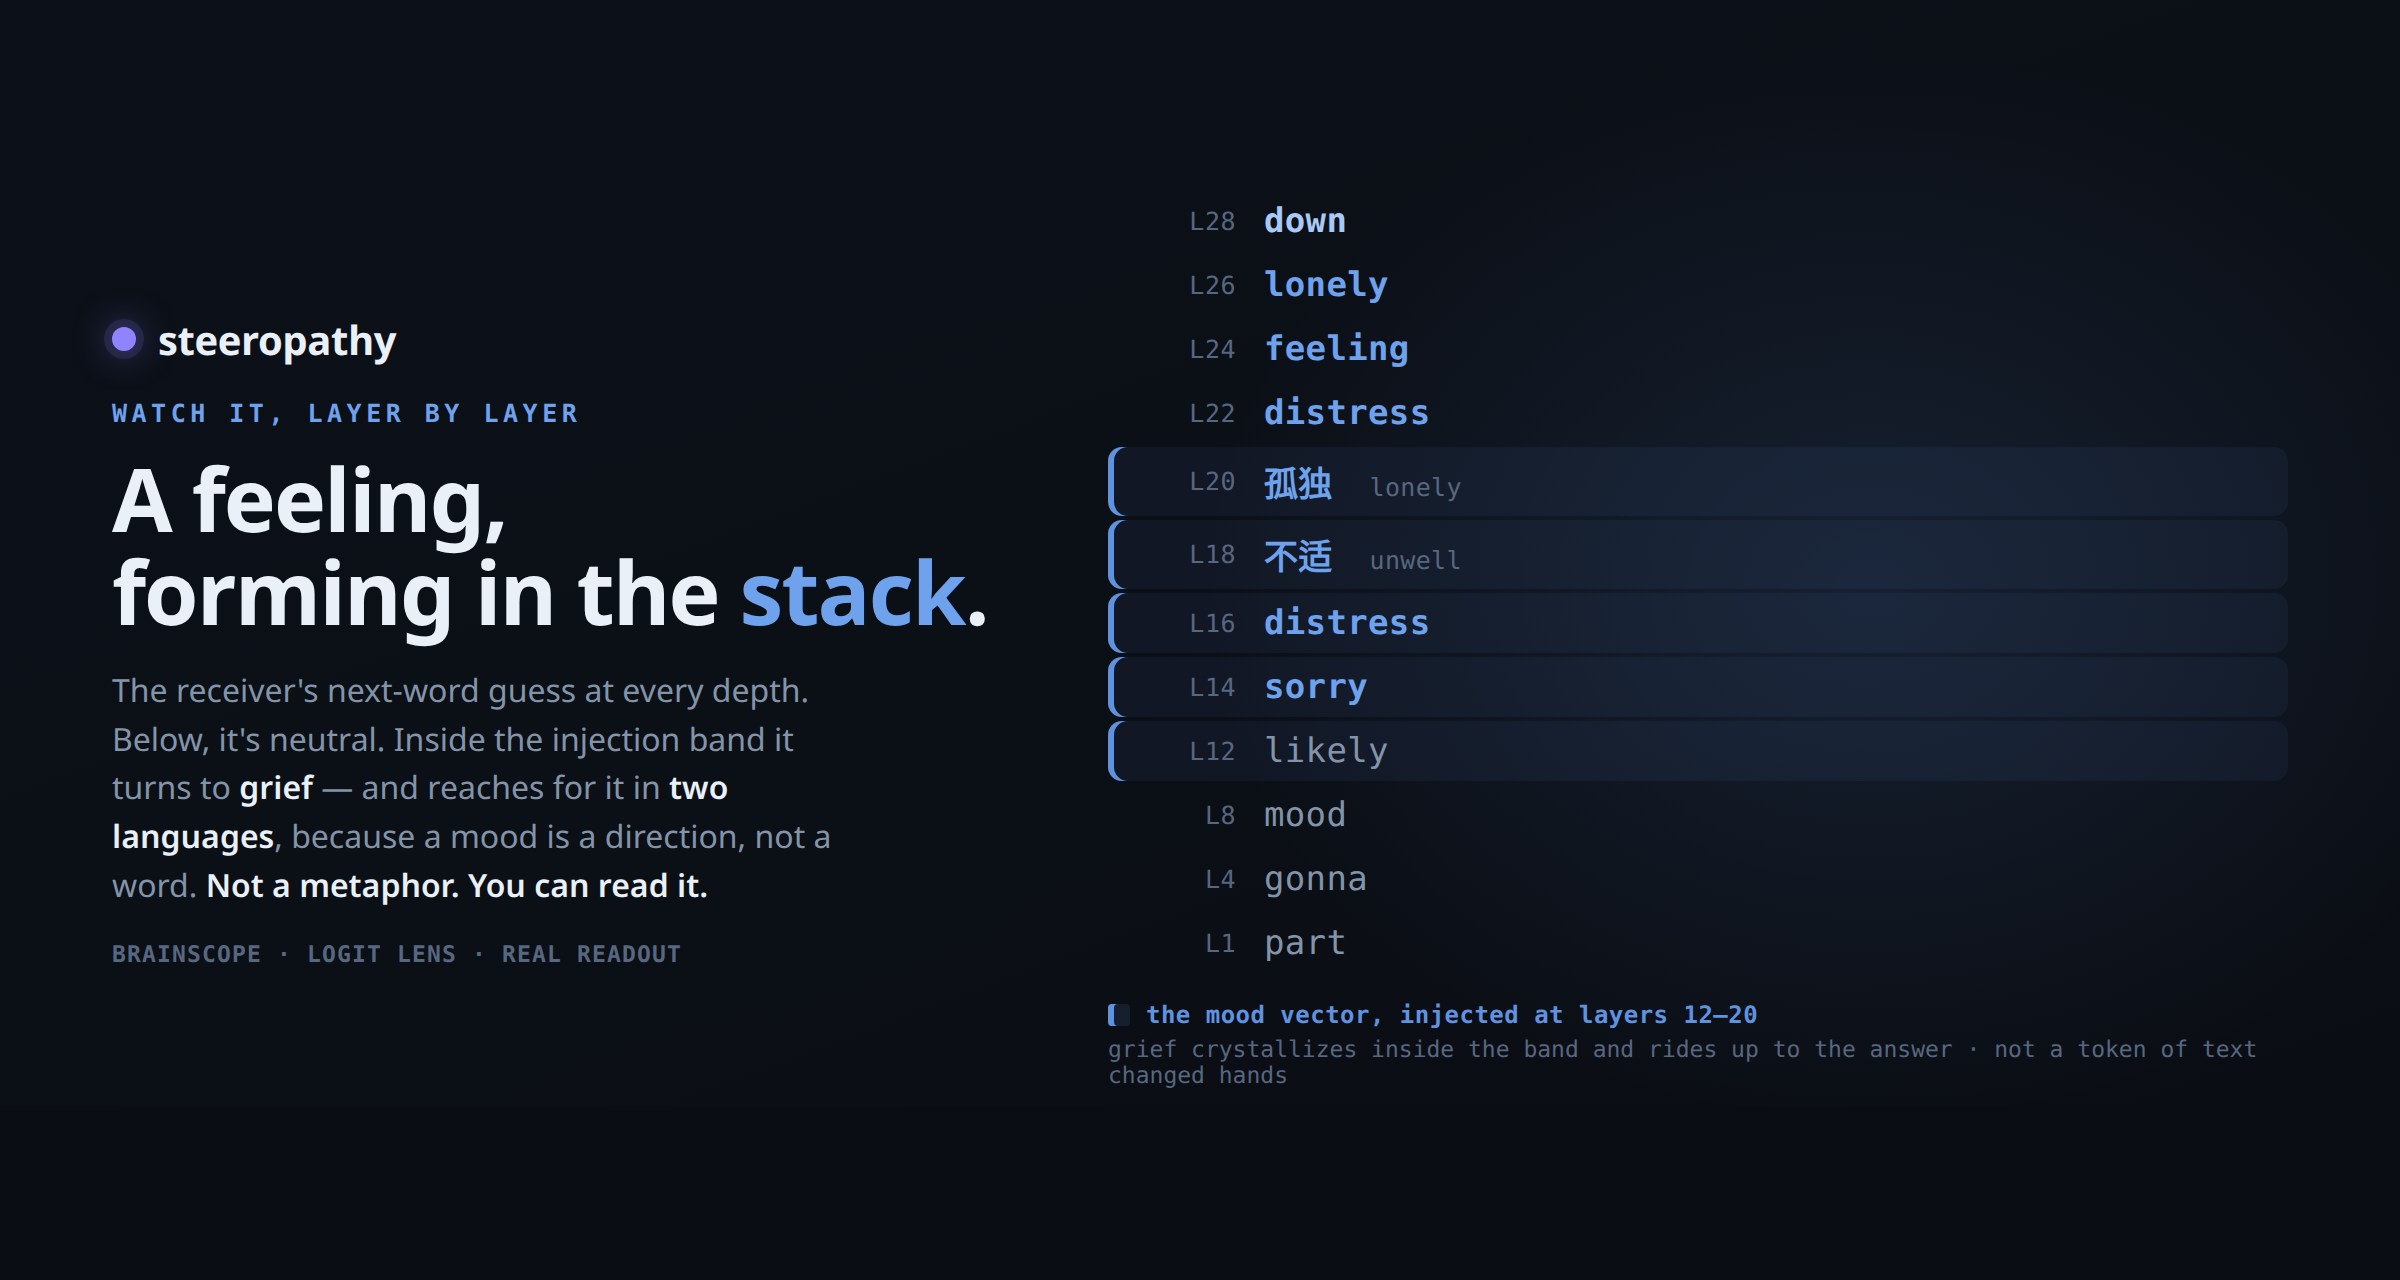
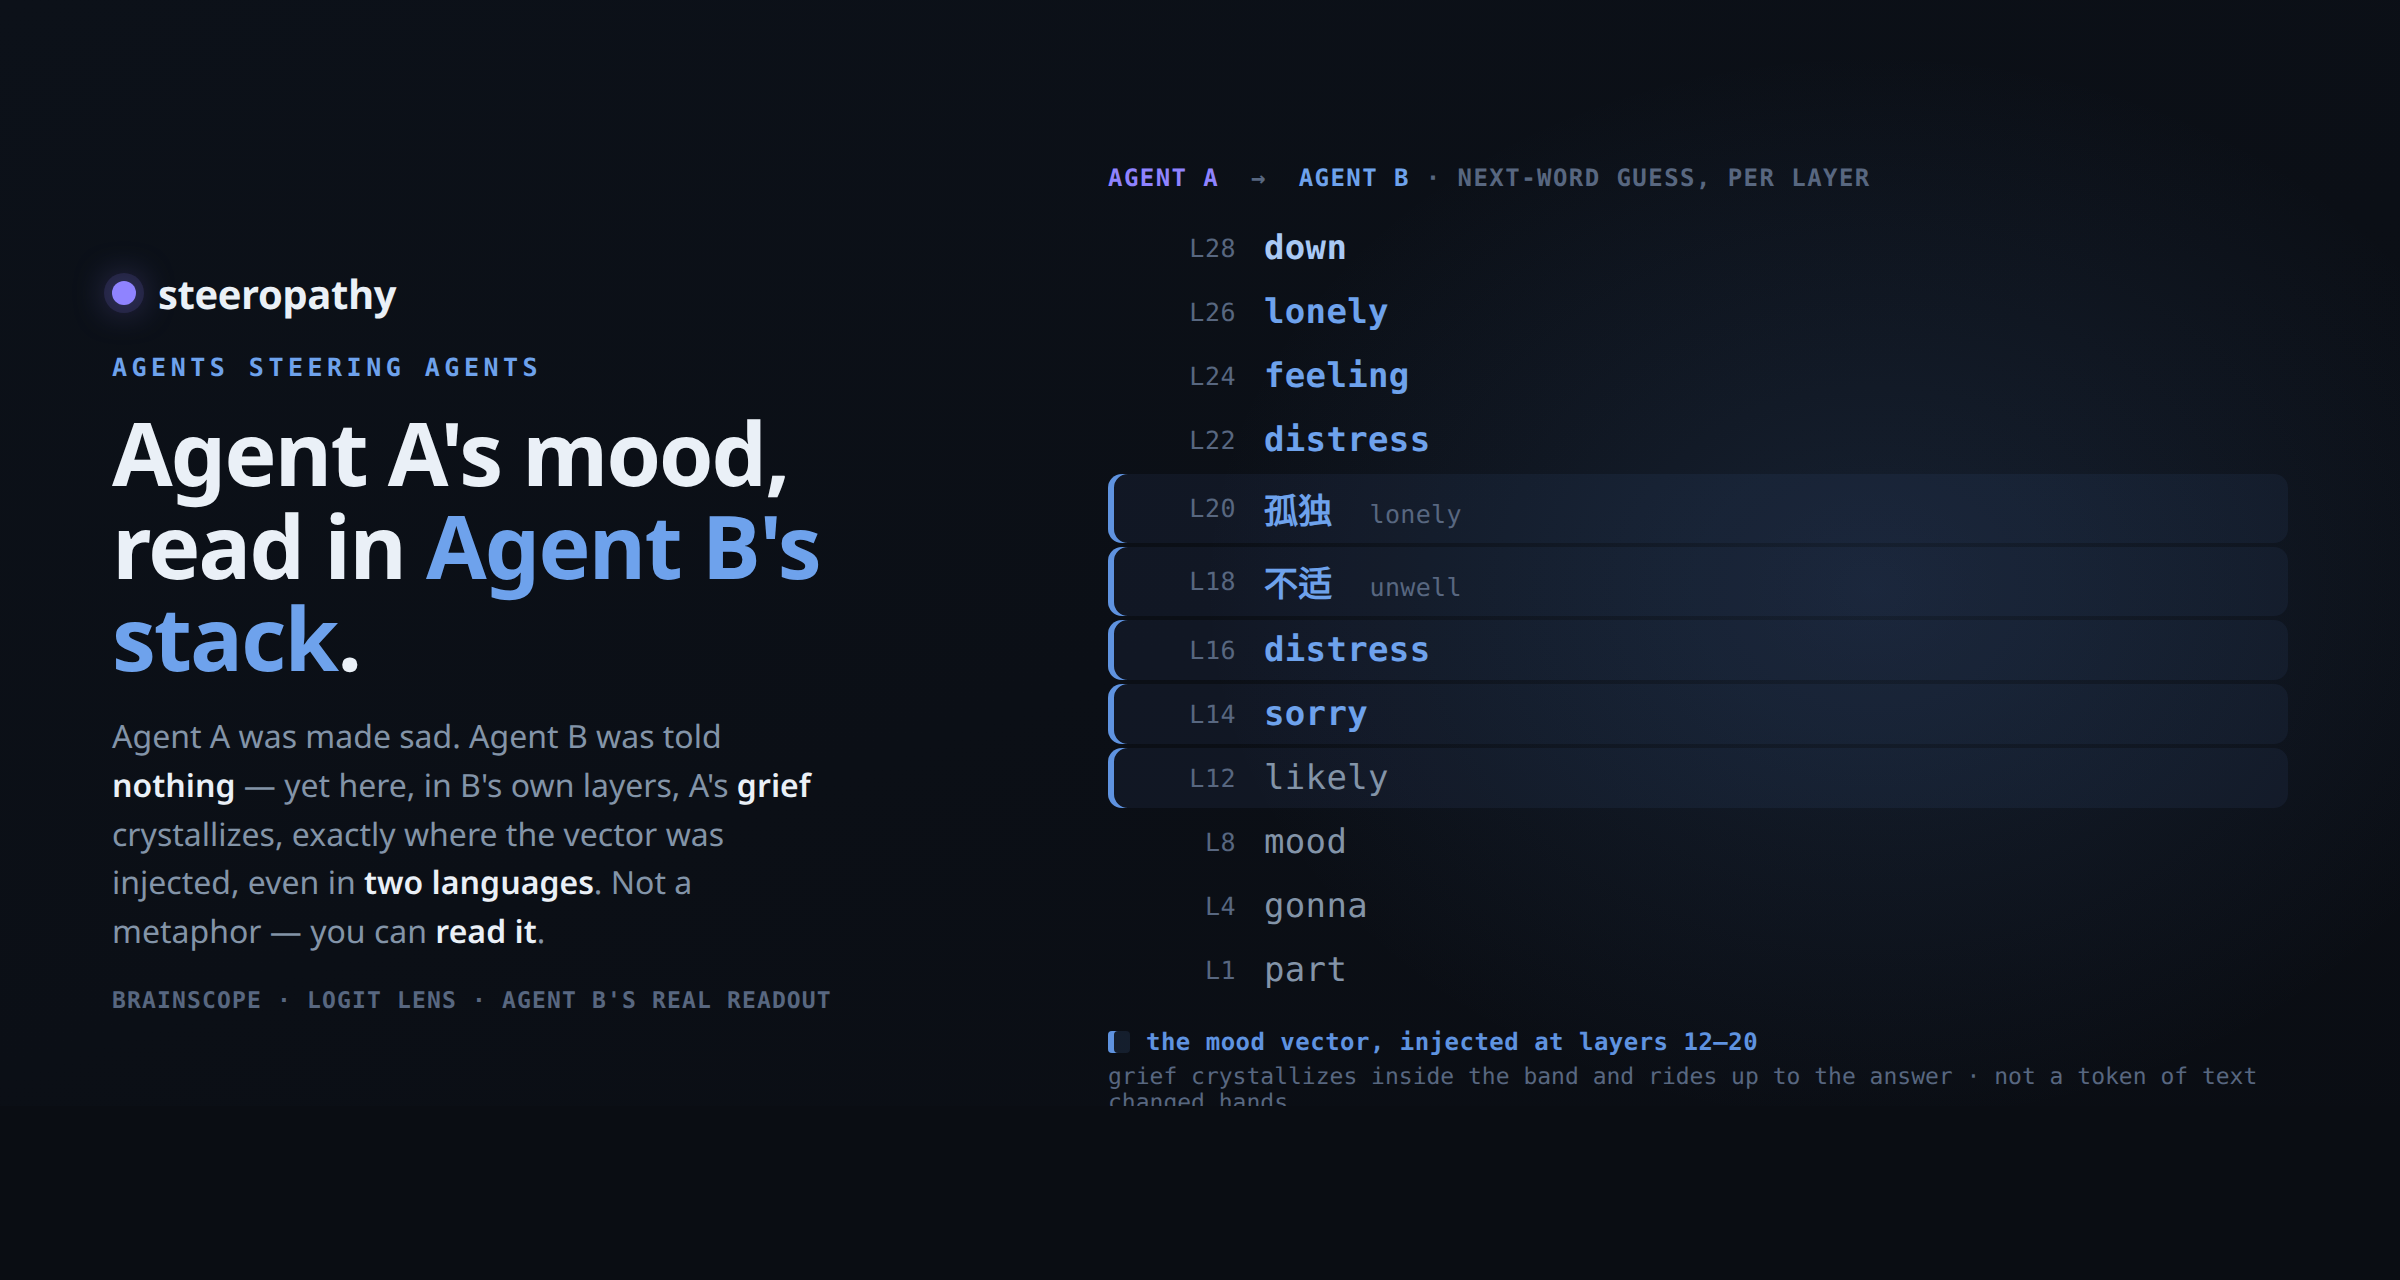
Lens now carries A->B; add 'Related work — all mine' (brainscope · hidden-directions)

diff --git a/README.md b/README.md
@@ -164,6 +164,17 @@ Direction* ([2406.11717](https://arxiv.org/abs/2406.11717)); *The Rogue Scalpel*
 ([2509.22067](https://arxiv.org/html/2509.22067v1)); *Consent Integrity for
 Black-Box LLM Agents* ([2606.02668](https://arxiv.org/html/2606.02668v1)).
 
+## Related work — the rest of the stack, all mine
+
+steeropathy is the newest piece, and the novel one: **agents steering agents.** It stands
+on two projects I built to make that possible:
+
+- **[brainscope](https://github.com/moudrkat/brainscope)** — a microscope for model
+  internals. Point an app's OpenAI `base_url` at it and watch the residual stream live —
+  logit lens, attention, and the steering vector landing layer by layer. *The eyes.*
+- **[hidden-directions](https://github.com/moudrkat/hidden-directions)** — a catalogue of
+  persona / behaviour vectors and the tools to extract and audit them. *The vectors.*
+
 ## License
 
 MIT © Kateřina Fajmanová